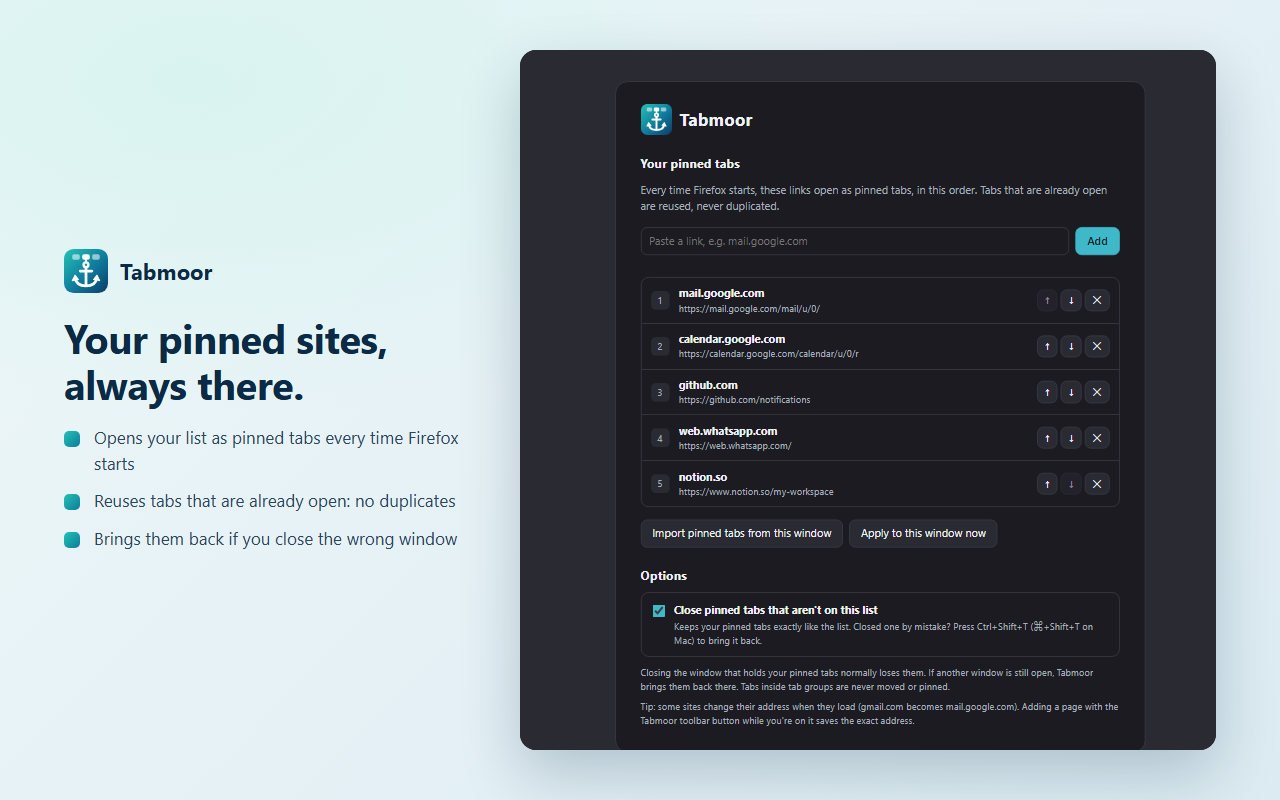
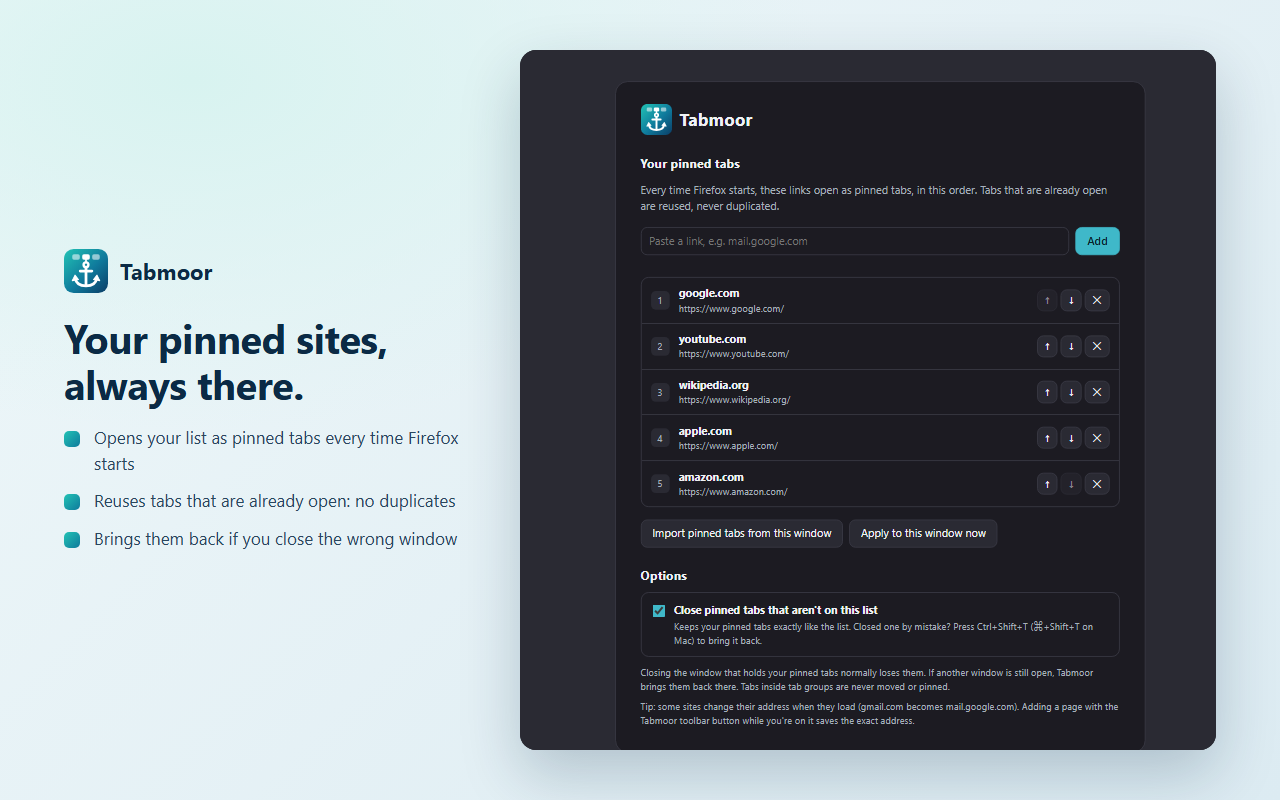
Use well-known example sites in store screenshots

Changed region(s): [[0.5312, 0.3438, 0.6562, 0.5625], [0.5312, 0.5938, 0.6562, 0.625]]

diff --git a/docs/store/shots/shot-popup.html b/docs/store/shots/shot-popup.html
@@ -18,11 +18,11 @@
 
   <div class="window">
     <div class="tabstrip">
-      <span class="pin" style="--c:#EA4335">M</span>
-      <span class="pin" style="--c:#4285F4">C</span>
-      <span class="pin" style="--c:#E6EDF3">G</span>
-      <span class="pin" style="--c:#25D366">W</span>
-      <span class="pin" style="--c:#F7F6F3">N</span>
+      <span class="pin" style="--c:#4285F4">G</span>
+      <span class="pin" style="--c:#FF3D3D">Y</span>
+      <span class="pin" style="--c:#E6E6E6">W</span>
+      <span class="pin" style="--c:#C7C7CC">A</span>
+      <span class="pin" style="--c:#FF9900">a</span>
       <span class="tab active">New Tab</span>
     </div>
     <div class="toolbar">

diff --git a/docs/store/shots/fake-browser.js b/docs/store/shots/fake-browser.js
@@ -3,11 +3,11 @@
 (() => {
   const store = {
     links: [
-      'https://mail.google.com/mail/u/0/',
-      'https://calendar.google.com/calendar/u/0/r',
-      'https://github.com/notifications',
-      'https://web.whatsapp.com/',
-      'https://www.notion.so/my-workspace',
+      'https://www.google.com/',
+      'https://www.youtube.com/',
+      'https://www.wikipedia.org/',
+      'https://www.apple.com/',
+      'https://www.amazon.com/',
     ],
     settings: { closeUnlisted: true },
   };
